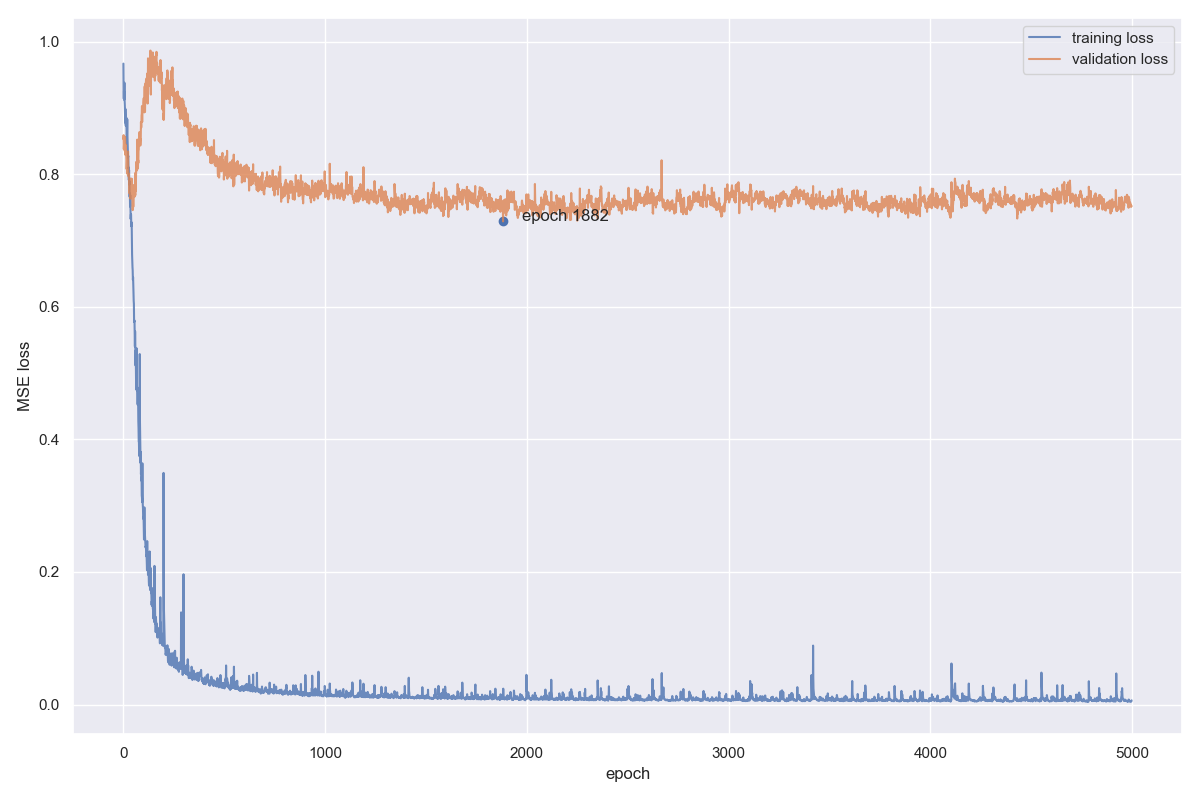
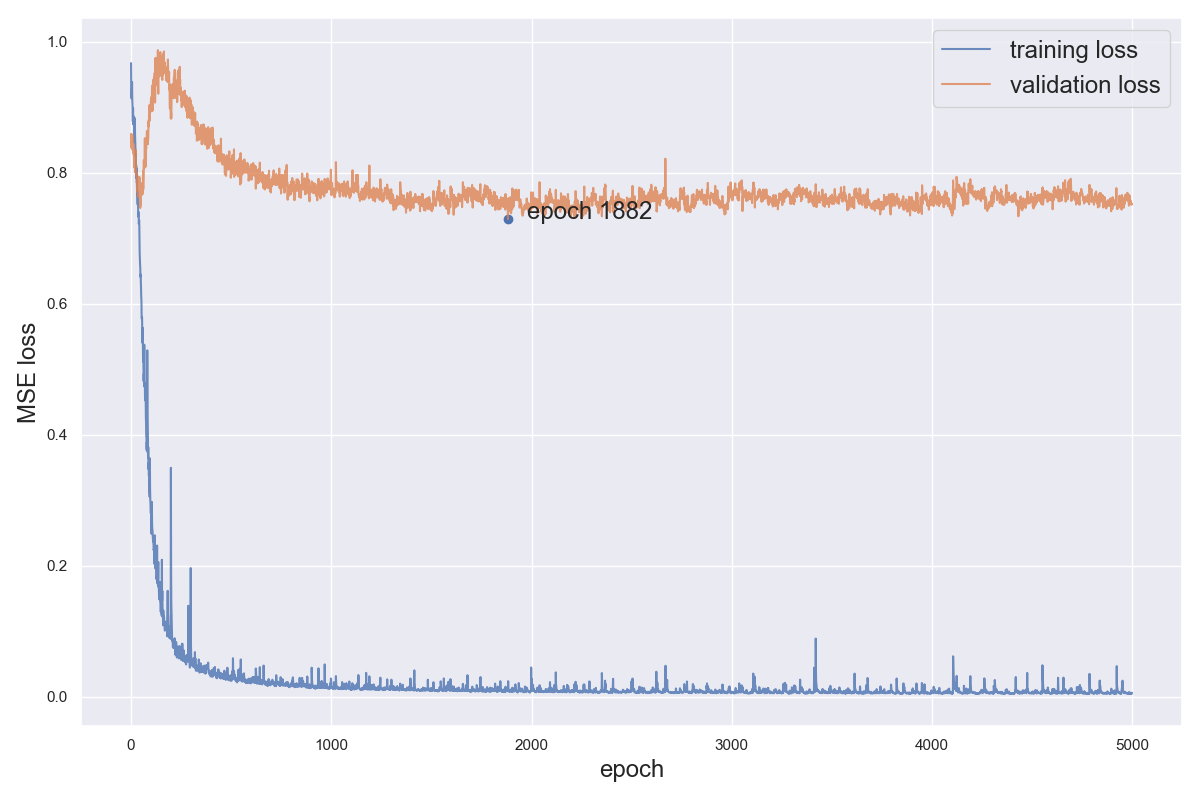
Re-ran loss plots with larger text for report.

diff --git a/models/monthly_no2/LSTM/config.py b/models/monthly_no2/LSTM/config.py
@@ -2,23 +2,23 @@ SpeciesCode = "NO2"
 laqn_start_date = "1997-01-01"
 laqn_end_date = "2018-01-01"
 
-training_window = 60  # consider the last X months of NO2 for each breast cancer diagnosis month
+training_window = 24  # consider the last X months of NO2 for each breast cancer diagnosis month
 
 aggregation = False  # Choose from ["mean"], or ["min", "max"]. Make this False if not using.
 quantile_step = 0.1  # Make this False if not using.
 
-ccgs = ["all_ccgs"]  # ["clustered_ccgs"]  # ["NHS Richmond"] # ["all_ccgs"]
-cluster_label = 3
-n_clusters = 4
+ccgs = ["clustered_ccgs"]  # ["clustered_ccgs"]  # ["NHS Richmond"] # ["all_ccgs"]
+cluster_label = 1
+n_clusters = 2
 cluster_variables = "both_ncras_no2"
 
-age_category = "all_ages"  # "age_cat_>=70"  #"age_cat_<40"  #"age_cat_40-69"  #"all_ages"
+age_category = "age_cat_40-69"  # "age_cat_>=70"  #"age_cat_<40"  #"age_cat_40-69"  #"all_ages"
 
 noise_standard_deviation = 0.3  # Standard deviation of Gaussian noise (been using 0.3)
 
 test_year = 2017
 
-hidden_layer_size = 100
+hidden_layer_size = 4
 batch_size = 30
 num_epochs = 10000
 batches_per_print = False
@@ -29,5 +29,5 @@ learning_rate = 0.001
 
 model_epoch = "best"  # Choose "final" or "best" model.
 
-compute_test_loss = True
-include_plot_title = True
+compute_test_loss = False
+include_plot_title = False

diff --git a/models/monthly_no2/MLP/plot_loss.py b/models/monthly_no2/MLP/plot_loss.py
@@ -72,17 +72,17 @@ if config.noise_standard_deviation:
     save_name += f"_augmented{config.noise_standard_deviation}".replace(".", "")
 
 # Add a point labelling the epoch with lowest validation loss
-ax.scatter(best_epoch, min(val_losses))
+ax.scatter(best_epoch, min(val_losses), )
 
 # Add a legend and title, label the plot and axes
-plt.annotate(f"epoch {best_epoch}", (best_epoch*1.05, min(val_losses)))
-plt.legend()
-plt.xlabel("epoch")
-plt.ylabel("MSE loss")
+plt.annotate(f"epoch {best_epoch}", (best_epoch*1.05, min(val_losses)), fontsize="x-large")
+plt.legend(fontsize="x-large")
+plt.xlabel("epoch", fontsize="x-large")
+plt.ylabel("MSE loss", fontsize="x-large")
 ccgs = ", ".join(ccgs)
-plt.title(f"mlp training loss for {ccgs}")
+plt.title(f"mlp training loss for {ccgs}", fontsize="x-large")
 
-# plt.show()
+#plt.show()
 fig.tight_layout()
 
 # Save the plot as a PNG file

diff --git a/models/monthly_no2/LSTM/plot_loss.py b/models/monthly_no2/LSTM/plot_loss.py
@@ -75,13 +75,13 @@ if config.noise_standard_deviation:
 ax.scatter(best_epoch, min(val_losses))
 
 # Add a legend and title, label the plot and axes
-plt.annotate(f"epoch {best_epoch}", (best_epoch*1.05, min(val_losses)))
-plt.legend()
-plt.xlabel("epoch")
-plt.ylabel("MSE loss")
+plt.annotate(f"epoch {best_epoch}", (best_epoch*1.05, min(val_losses)), fontsize="x-large")
+plt.legend(fontsize="x-large")
+plt.xlabel("epoch", fontsize="x-large")
+plt.ylabel("MSE loss", fontsize="x-large")
 ccgs = ", ".join(ccgs)
 if config.include_plot_title:
-    plt.title(f"LSTM training loss for {ccgs}")
+    plt.title(f"LSTM training loss for {ccgs}", fontsize="x-large")
 
 # plt.show()
 fig.tight_layout()
